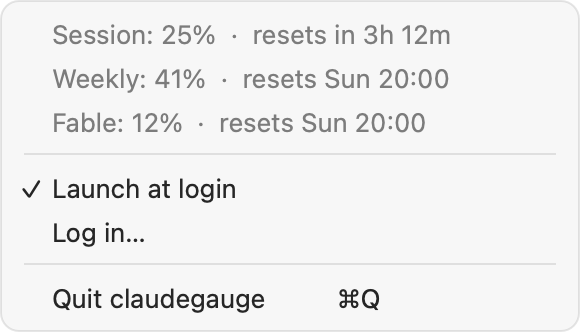
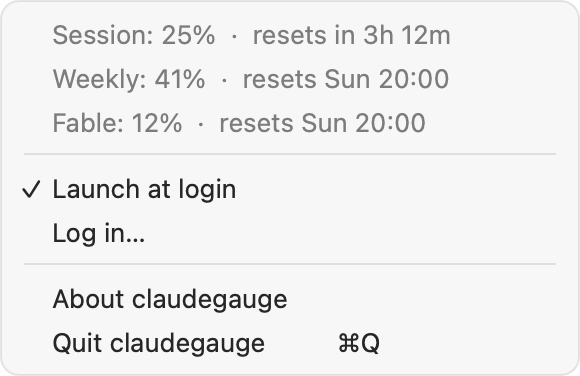
Add About item that opens the project on GitHub

diff --git a/ClaudeGauge/StatusMenu.swift b/ClaudeGauge/StatusMenu.swift
@@ -5,6 +5,9 @@ import ServiceManagement
 /// builds the dropdown menu each time it opens.
 @MainActor
 final class StatusMenu: NSObject, NSMenuDelegate {
+    /// Opened by "About claudegauge".
+    static let projectURL = URL(string: "https://github.com/rasrenan/claudegauge")!
+
     private let poller: UsagePoller
     private let launcher: LoginLauncher
     private let statusItem: NSStatusItem
@@ -53,6 +56,10 @@ final class StatusMenu: NSObject, NSMenuDelegate {
         }
         menu.addItem(loginItem)
         menu.addItem(.separator())
+
+        let aboutItem = NSMenuItem(title: "About claudegauge", action: #selector(openAbout), keyEquivalent: "")
+        aboutItem.target = self
+        menu.addItem(aboutItem)
 
         let quitItem = NSMenuItem(title: "Quit claudegauge", action: #selector(quit), keyEquivalent: "q")
         quitItem.target = self
@@ -132,6 +139,10 @@ final class StatusMenu: NSObject, NSMenuDelegate {
         case .claudeNotFound:
             alert("Claude Code not found", "Install Claude Code and log in once, then try again.")
         }
+    }
+
+    @objc private func openAbout() {
+        NSWorkspace.shared.open(Self.projectURL)
     }
 
     @objc private func quit() {

diff --git a/ClaudeGaugeTests/StatusMenuTests.swift b/ClaudeGaugeTests/StatusMenuTests.swift
@@ -53,4 +53,8 @@ final class StatusMenuTests: XCTestCase {
         XCTAssertEqual(StatusMenu.statusLines(for: .notLoggedIn, fable: f, now: now), ["Not logged in"])
         XCTAssertEqual(StatusMenu.statusLines(for: .starting, fable: f, now: now), ["Checking usage…"])
     }
+
+    func testAboutOpensProjectOnGitHub() {
+        XCTAssertEqual(StatusMenu.projectURL.absoluteString, "https://github.com/rasrenan/claudegauge")
+    }
 }

diff --git a/tools/readme-images.swift b/tools/readme-images.swift
@@ -118,6 +118,7 @@ func menuMock(dark: Bool) -> NSImage {
         ("Launch at login", true),
         ("Log in…", true),
         ("—", false),
+        ("About claudegauge", true),
         ("Quit claudegauge          ⌘Q", true),
     ]
     let rowH: CGFloat = 22, sepH: CGFloat = 11, padV: CGFloat = 6

diff --git a/README.md b/README.md
@@ -87,7 +87,7 @@ Click the dial to open its menu:
 <p align="center">
   <picture>
     <source media="(prefers-color-scheme: dark)" srcset="docs/images/menu-dark.png">
-    <img src="docs/images/menu-light.png" width="290" alt="claudegauge menu showing session, weekly and Fable usage, Launch at login, Log in and Quit">
+    <img src="docs/images/menu-light.png" width="290" alt="claudegauge menu showing session, weekly and Fable usage, Launch at login, Log in, About and Quit">
   </picture>
 </p>
 
@@ -98,6 +98,7 @@ Click the dial to open its menu:
 | **Fable** | Weekly usage of the Fable model. **Only shown if your account has a Fable limit.** |
 | **Launch at login** | When ticked, claudegauge starts automatically every time you turn on your Mac. |
 | **Log in…** | Logs you in to Claude if claudegauge says you're not logged in. It is shown in **bold** when you need it. |
+| **About claudegauge** | Opens this project's page on GitHub in your browser. |
 | **Quit claudegauge** | Closes the app and removes the dial from the menu bar. |
 
 ## Requirements
